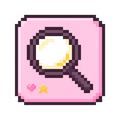
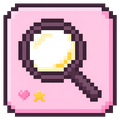
Add files via upload

diff --git a/app.js b/app.js
@@ -1,4 +1,7 @@
 (function(){
+  // iOS 사파리는 이게 없으면 버튼 :active(눌림) CSS가 탭 했을 때 거의 안 켜짐
+  document.addEventListener('touchstart', function(){}, {passive:true});
+
   const genId = () => Date.now().toString(36) + Math.random().toString(36).slice(2,7);
   const ANNIV = '2026-02-02';
 
@@ -2238,15 +2241,18 @@ function startWatchers(){
     if(visitWatchStarted) return;
     visitWatchStarted = true;
     db.collection('stats').doc('visits').onSnapshot(doc=>{
-      const el = document.getElementById('visitCounter');
-      if(!el) return;
+      const todayEl = document.getElementById('visitToday');
+      const totalEl = document.getElementById('visitTotal');
+      if(!todayEl || !totalEl) return;
       const todayStr = localDateStr();
       if(doc.exists){
         const data = doc.data();
         const todayCount = (data.todayDate === todayStr) ? (data.todayCount || 0) : 0;
-        el.textContent = `Today ${todayCount} · Total ${data.total || 0}`;
+        todayEl.textContent = `Today ${todayCount}`;
+        totalEl.textContent = `Total ${data.total || 0}`;
       } else {
-        el.textContent = 'Today 0 · Total 0';
+        todayEl.textContent = 'Today 0';
+        totalEl.textContent = 'Total 0';
       }
     }, err=>console.error('방문자 수 구독 실패', err));
   }

diff --git a/index.html b/index.html
@@ -24,7 +24,10 @@
       <button class="icon-btn" id="searchOpenBtn" title="검색"><img src="search-icon.png" alt="검색"></button>
       <div style="display:flex; flex-direction:column; align-items:flex-end; gap:3px;">
         <button class="identity-chip" id="identityChip" title="탭하면 로그아웃">나는 ...</button>
-        <div class="visit-counter" id="visitCounter"></div>
+        <div class="visit-counter">
+          <div id="visitToday"></div>
+          <div id="visitTotal"></div>
+        </div>
       </div>
     </div>
   </header>

diff --git a/style.css b/style.css
@@ -74,6 +74,7 @@
     font-size:12px;
     color:var(--plum-soft);
     box-shadow:3px 3px 0 rgba(74,53,72,0.25);
+    white-space:nowrap;
   }
   .dday-pill b{
     font-family:'DungGeunMo',sans-serif;
@@ -96,7 +97,8 @@
   }
   .identity-chip:active{ transform:translate(3px,3px); box-shadow:0 0 0 rgba(74,53,72,0.25); }
   .visit-counter{
-    font-size:8px; color:var(--plum-soft); white-space:nowrap; padding-right:4px;
+    display:flex; flex-direction:column; align-items:flex-end; gap:1px;
+    font-size:10px; color:var(--plum-soft); white-space:nowrap; padding-right:4px;
   }
 
   main{padding:16px 20px 20px;}